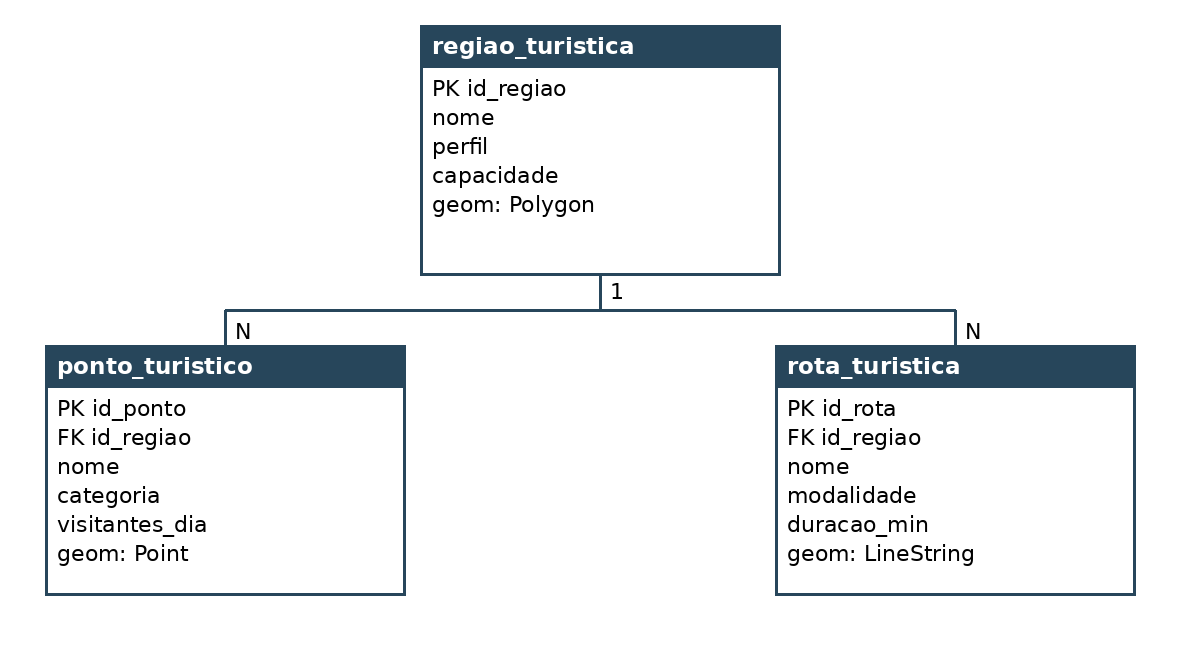
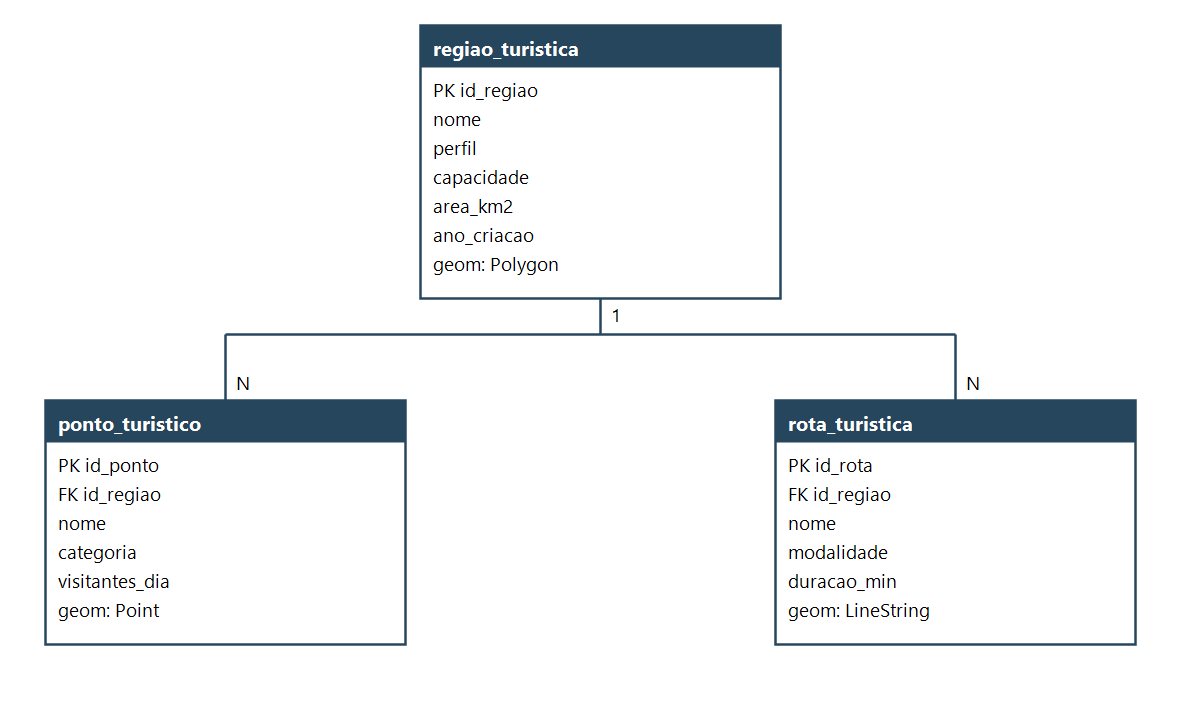
Adiciona area_km2 e ano_criacao em regiao_turistica
Garante pelo menos 4 colunas não geométricas relevantes além da PK. Atualiza carga, validação, consultas, dicionário e DER. Retestado em banco limpo (PostgreSQL 16.16 + PostGIS 3.4.2).

Changed region(s): [[0.0305, 0.0308, 0.9763, 0.9231]]

diff --git a/DICIONARIO.md b/DICIONARIO.md
@@ -26,11 +26,13 @@
 | Rotas por região | 2: a rota 1 liga as atrações da fila de baixo; a rota 2, as da fila de cima (5 vértices cada) |
 | `perfil` | `cultural` para regiões de id ímpar; `natureza` para id par |
 | `capacidade` | 100 × `id_regiao` (100 a 5.000) |
+| `area_km2` | Calculada da geometria: `ST_Area(ST_Transform(geom, 31983)) / 1.000.000`, arredondada a 3 casas |
+| `ano_criacao` | 2000 + (`id_regiao` mod 25), de 2000 a 2024 |
 | `categoria` | Cíclica pela posição j (1 a 10) da atração na região: museu, parque, mirante, museu… |
 | `visitantes_dia` | 20 × j (20 a 200) |
 | `modalidade` / `duracao_min` | Rota 1: caminhada, 30 min; rota 2: bicicleta, 60 min |
 
-Medidas resultantes, obtidas por `sql/consultas.sql` em EPSG:31983: cada região tem entre 4,632 e 4,635 km²; cada rota tem entre 1.255,48 e 1.256,25 m. A variação vem apenas da posição na projeção UTM.
+Medidas resultantes em EPSG:31983: cada região tem entre 4,632 e 4,635 km² (coluna `area_km2`); cada rota tem entre 1.255,48 e 1.256,25 m. A variação vem apenas da posição na projeção UTM.
 
 ## 2. Descrição das tabelas
 
@@ -43,6 +45,8 @@ Células de estudo artificiais. **Geometria:** Polygon · **SRID:** 4674 · **Re
 | nome | varchar | 80, único | Não | — | Nome simulado da região | Região 01 |
 | perfil | varchar | 20 · ver seção 4 | Não | — | Perfil turístico predominante | cultural |
 | capacidade | integer | > 0 | Não | — | Capacidade hipotética de visitantes por dia | 100 |
+| area_km2 | numeric | (8,3) · > 0 | Não | — | Área da região em km², calculada da geometria em EPSG:31983 | 4.632 |
+| ano_criacao | smallint | 1900 a 2026 | Não | — | Ano hipotético de criação da região turística | 2001 |
 | geom | geometry | Polygon, 4674 | Não | — | Limite da célula; válido e não vazio | `POLYGON((-44 -20,-44 -19.98,-43.98 -19.98,-43.98 -20,-44 -20))` |
 
 ### Tabela `ponto_turistico`
